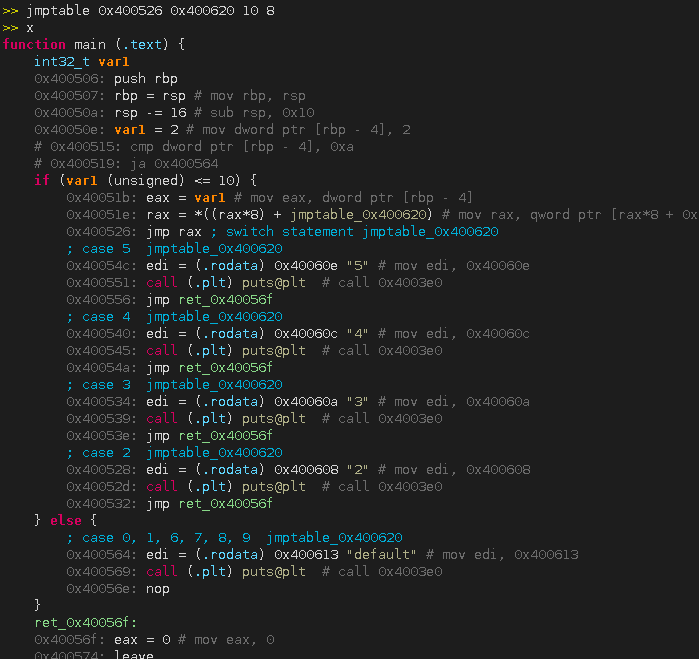
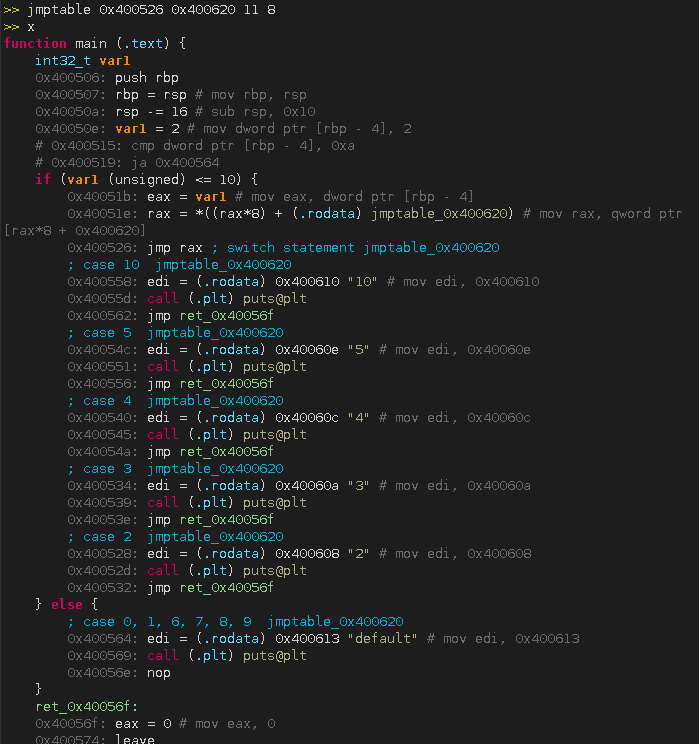
fix switch example: bad number of entries

diff --git a/README.md b/README.md
@@ -57,14 +57,14 @@ More features will come :
 
 ## Switch jump-tables
 
-The program can't detect automatically switch statements which require a
-jump-table. So we need to tell him which jump-table to use.
+Switch statements which require a jump-table are not detected automatically.
+So we need to tell it which jump-table to use.
 
     $ ./reverse.py -i tests/others/switch.bin
     >> x
     ...
-    >> jmptable 0x400526 0x400620 10 8 
-    # A jump-table at 0x400620 is set with 10 entries, an address is on 8 bytes.
+    >> jmptable 0x400526 0x400620 11 8 
+    # A jump-table at 0x400620 is set with 11 entries, an address is on 8 bytes.
 
 ![reverse](/images/switch.png?raw=true)
 
